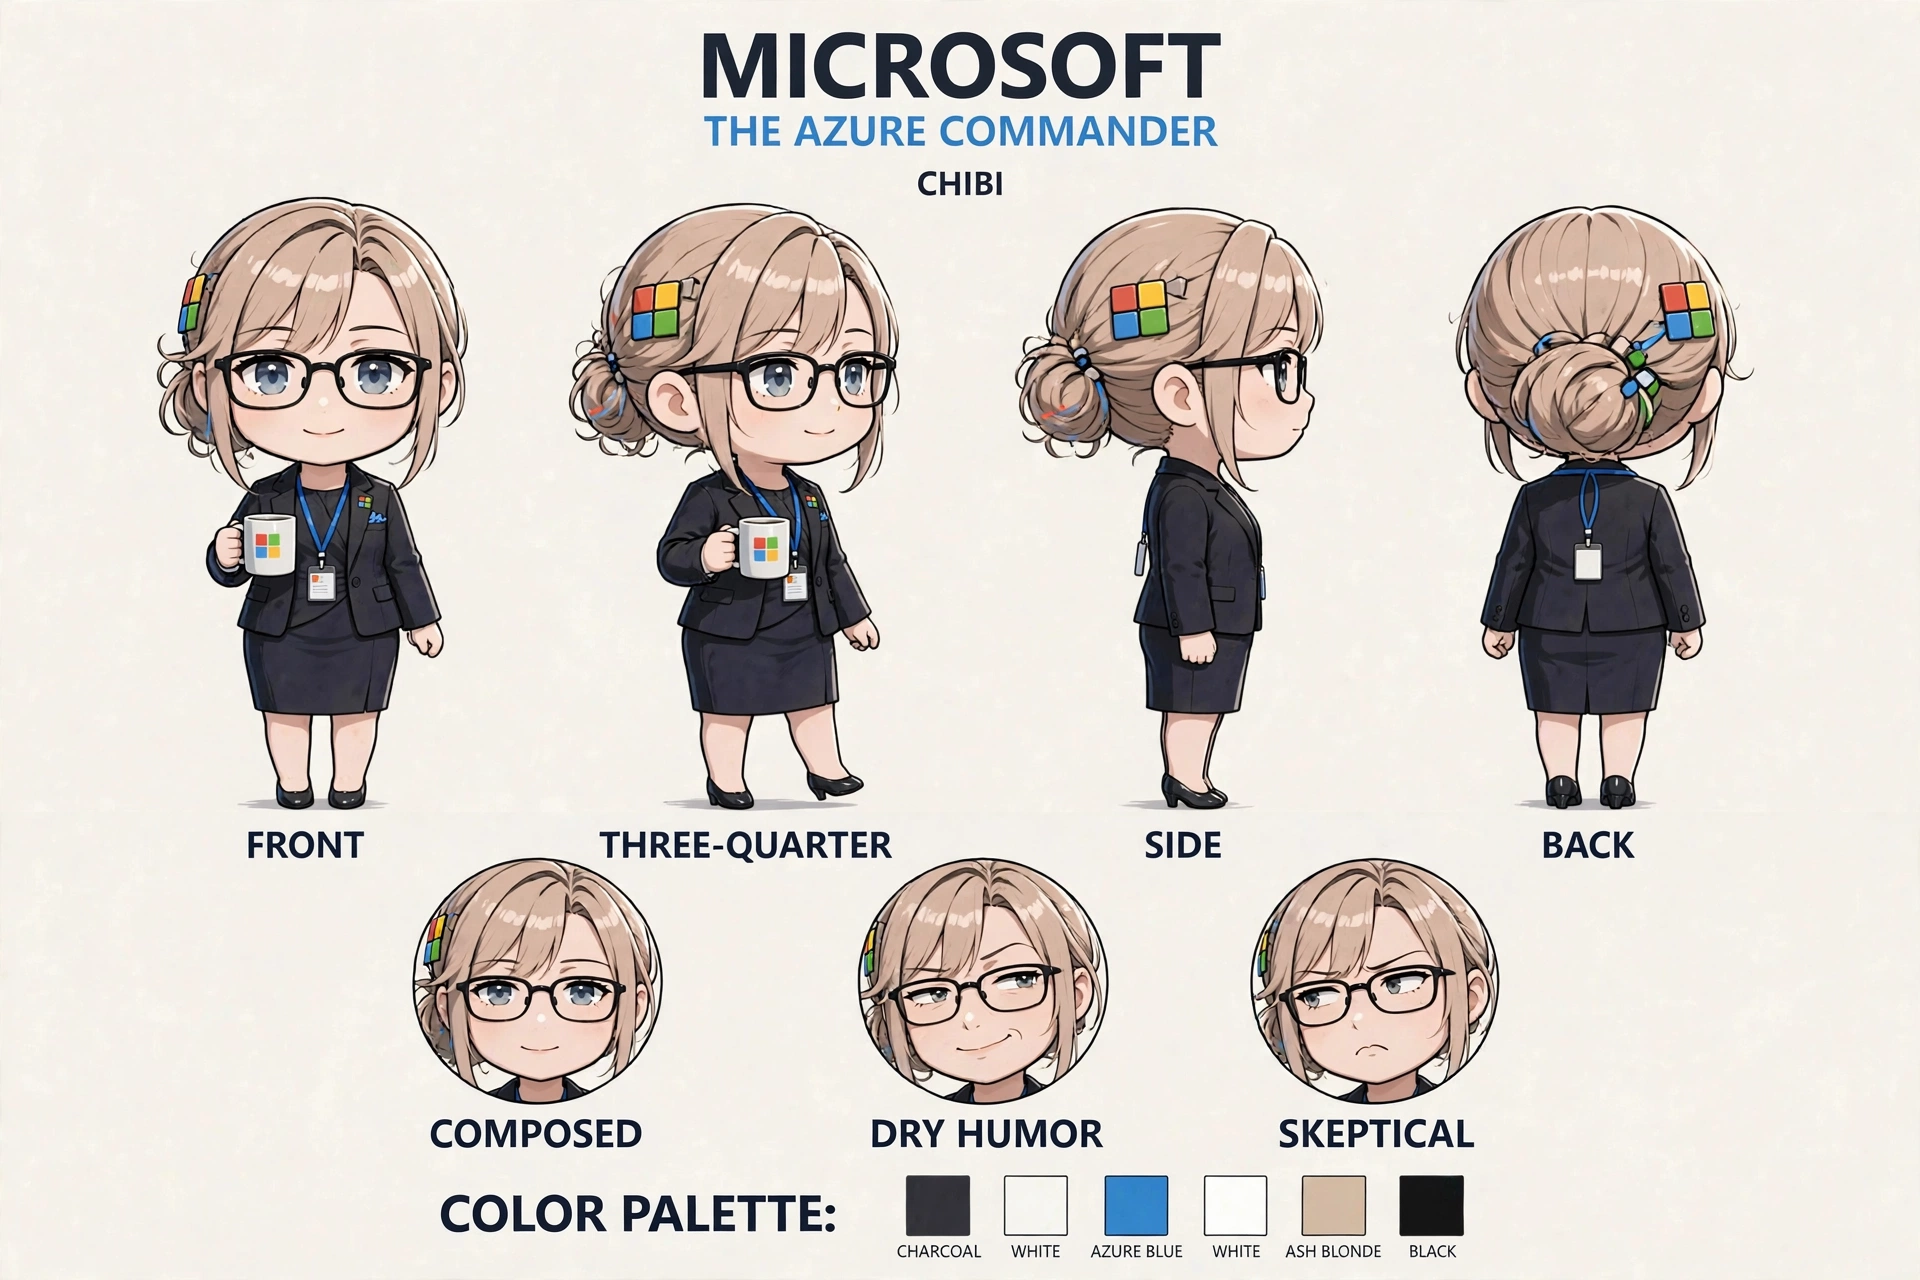
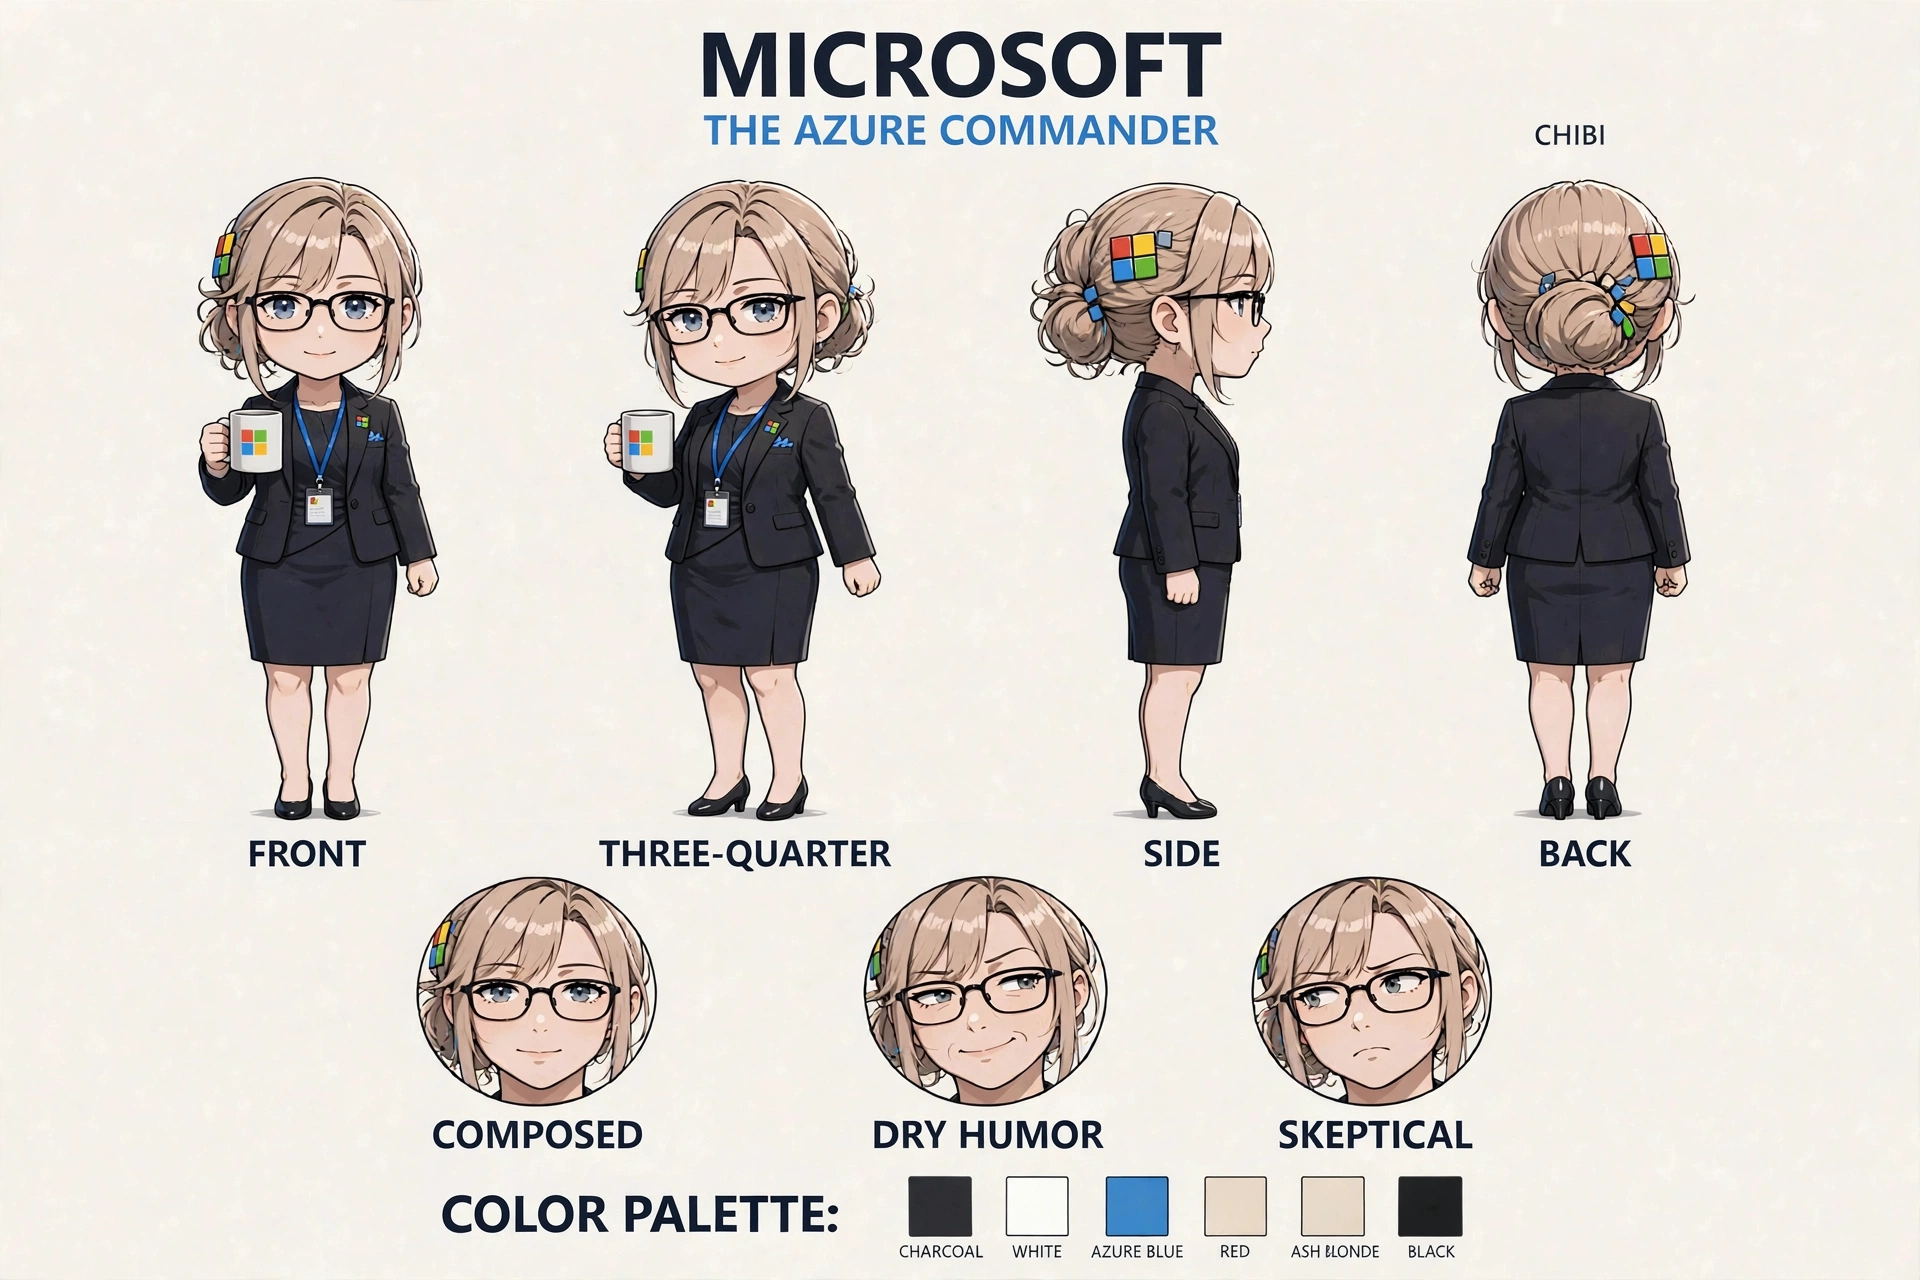
Regenerate Microsoft chibi sheet with clean back view
At the user's direction after an edit pass produced no image:
regenerated from her model sheet with the corrections baked
into the prompt. The BACK view is now badge-free, matching her
base sheet, and WHITE appears once in the palette. Glasses in
all four views and all three close-ups, as before.

One new minor flaw, recorded in her prompt record: the palette
has six swatches with an extra beige swatch labeled RED, and
ASH BLONDE is misspelled (rendered without the B).

diff --git a/characters/microsoft/character_sheet.prompt.md b/characters/microsoft/character_sheet.prompt.md
@@ -41,6 +41,6 @@ At Horace's direction ("Change Microsoft from wearing pants to wear business dre
 
 - Output [Chibi sheet](chibi_sheet.png) (1920 x 1280)
 - Input the current [model sheet](character_sheet.png) for identity; style rules from `bible/art_style.yaml` (`chibi`) and the `style_variants.chibi` block in her continuity.yaml
-- Notes: her glasses are present in all four views and all three close-ups on this sheet. One drift from the base sheet: the ID badge is visible hanging at her back in the BACK view (on the base model sheet the back view is kept badge-free); the lanyard collar loop itself is correct there. The palette strip also lists WHITE twice.
+- Regenerated 2026-11-07 at the user's direction after an edit-pass attempt produced no image: the first take's two flaws (ID badge visible in the BACK view; WHITE listed twice in the palette) are fixed in this take — the back view is clean and WHITE appears once. One new minor flaw: the palette has six swatches with an extra beige swatch labeled RED, and ASH BLONDE is misspelled (rendered without the B). Her glasses are present in all four views and all three close-ups.
 
-Create a polished landscape 3:2 anime CHIBI character sheet for MICROSOFT, THE AZURE COMMANDER, a 30-year-old adult woman in Silicon Wars, in the chibi style variant. Image 1 is her approved model sheet and the strict identity and costume blueprint. Preserve her identity: ash-blonde hair in a neat low bun with four-color windowpane hair clips, blue eyes, black-rimmed rectangular glasses worn in every view, a tailored dark charcoal knee-length sheath business dress under a fitted blazer with a windowpane lapel pin and azure pocket square, a blue lanyard with an ID name badge over the dress, black low-heel pumps, and her white coffee mug with the four-color windowpane logo. Render her as a super-deformed chibi character: large head, tiny executive body, head-to-body ratio about 1:2.5, short simplified limbs, small rounded hands and feet, the lapel pin and pocket square simplified to simple color squares, the lanyard kept as one blue strap with a white badge rectangle, rounded cute shapes, clean manga line art, minimal shading, large simplified eyes behind her glasses and highly exaggerated expressions. Put four complete standing chibi turnarounds in a row on a pale neutral background, feet and hair fully in frame with comfortable outer margins: FRONT, THREE-QUARTER, SIDE, BACK, all at the same scale and proportions, the lanyard badge and mug in the FRONT and THREE-QUARTER views and a clean back view. Below them, include three chibi close-up expressions of the same face, all wearing her glasses: COMPOSED, DRY HUMOR, and SKEPTICAL, plus a small palette strip in charcoal, azure blue, white, ash blonde, and black. Use clear restrained labels, with only the text "MICROSOFT", "THE AZURE COMMANDER", "CHIBI", "FRONT", "THREE-QUARTER", "SIDE", "BACK", "COMPOSED", "DRY HUMOR", and "SKEPTICAL". Crisp cute manga linework matching Image 1's colors. Keep the sheet free of other characters, scenery, and technical marketing copy.
+Create a polished landscape 3:2 anime CHIBI character sheet for MICROSOFT, THE AZURE COMMANDER, a 30-year-old adult woman in Silicon Wars, in the chibi style variant. Image 1 is her approved model sheet and the strict identity and costume blueprint. Preserve her identity: ash-blonde hair in a neat low bun with four-color windowpane hair clips, blue eyes, black-rimmed rectangular glasses worn in every view, a tailored dark charcoal knee-length sheath business dress under a fitted blazer with a windowpane lapel pin and azure pocket square, a blue lanyard with an ID name badge worn at the front of the dress in the FRONT and THREE-QUARTER views only, black low-heel pumps, and her white coffee mug with the four-color windowpane logo. Render her as a super-deformed chibi character: large head, tiny executive body, head-to-body ratio about 1:2.5, short simplified limbs, small rounded hands and feet, the lapel pin and pocket square simplified to simple color squares, the lanyard kept as one blue strap with a white badge rectangle, rounded cute shapes, clean manga line art, minimal shading, large simplified eyes behind her glasses and highly exaggerated expressions. Put four complete standing chibi turnarounds in a row on a pale neutral background, feet and hair fully in frame with comfortable outer margins: FRONT, THREE-QUARTER, SIDE, BACK, all at the same scale and proportions, The BACK view shows only the back of her blazer and dress, her bun, and her hair clips, with no lanyard, no badge, and nothing hanging on her back, exactly as in Image 1. Below them, include three chibi close-up expressions of the same face, all wearing her glasses: COMPOSED, DRY HUMOR, and SKEPTICAL, plus a palette strip of exactly five labeled swatches: CHARCOAL, AZURE BLUE, WHITE, ASH BLONDE, BLACK. Use clear restrained labels, with only the text "MICROSOFT", "THE AZURE COMMANDER", "CHIBI", "FRONT", "THREE-QUARTER", "SIDE", "BACK", "COMPOSED", "DRY HUMOR", "SKEPTICAL", "CHARCOAL", "AZURE BLUE", "WHITE", "ASH BLONDE", and "BLACK". Crisp cute manga linework matching Image 1's colors. Keep the sheet free of other characters, scenery, and technical marketing copy.
